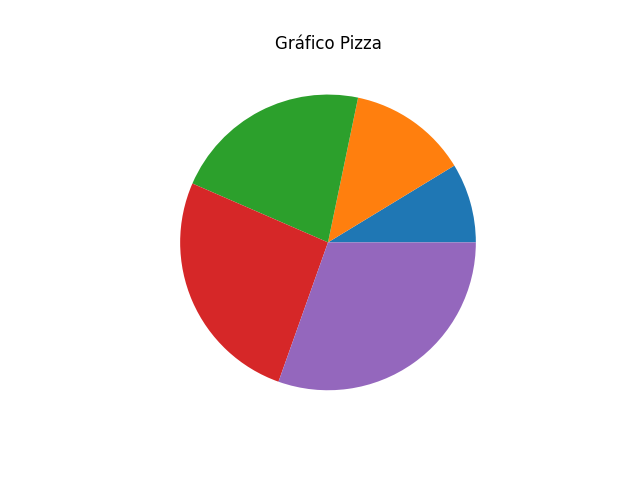
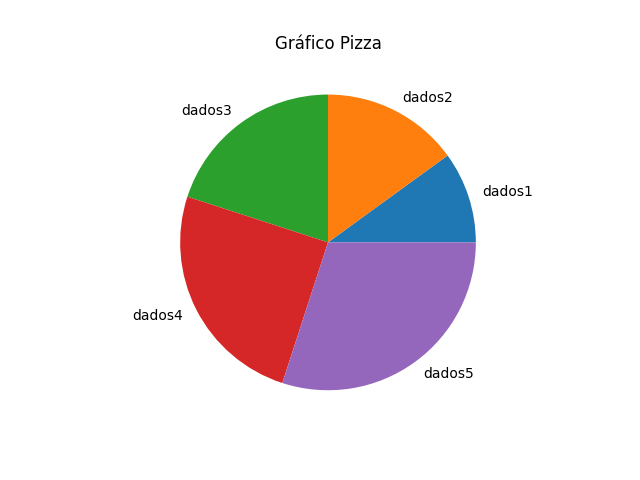
Finalizando..agora vai

diff --git a/aula4/grafico_desafio/index.py b/aula4/grafico_desafio/index.py
@@ -4,6 +4,7 @@ import numpy as np
 
 def grafico_pizza():  
     dados = [] 
+    labels = ["dados1","dados2","dados3","dados4","dados5"]
 
     plt.title("Gráfico Pizza")
 
@@ -15,7 +16,8 @@ def grafico_pizza():
         else:
             dados.append(dados_d)
  
-    plt.pie(dados)
+    plt.pie(dados,labels=labels)
+    plt.legend(labels, loc=3)
     plt.savefig('grafico_pizza.png', transparent = True)#salvar grafico
     plt.show()
 

diff --git a/aula4/modulo.py b/aula4/modulo.py
@@ -1,4 +1,3 @@
-
 import matplotlib.pyplot
 
 meses = ['Janeiro', 'Fevereiro', 'Março', 'Abril', 'Maio', 'Junho']
